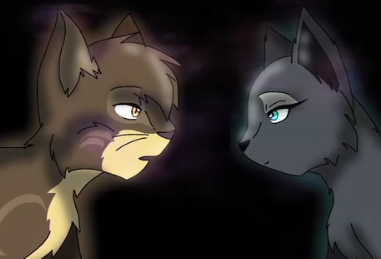
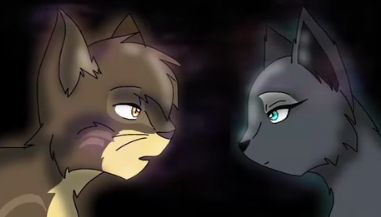
18.03.2025

diff --git a/index.html b/index.html
@@ -116,7 +116,7 @@ a:hover{
 	padding: 0% 3% 0% 3%;
 }
 .miniature {
-	padding-top: 2%;
+	padding-top: 1%;
 	width : 99%;
 }
 
